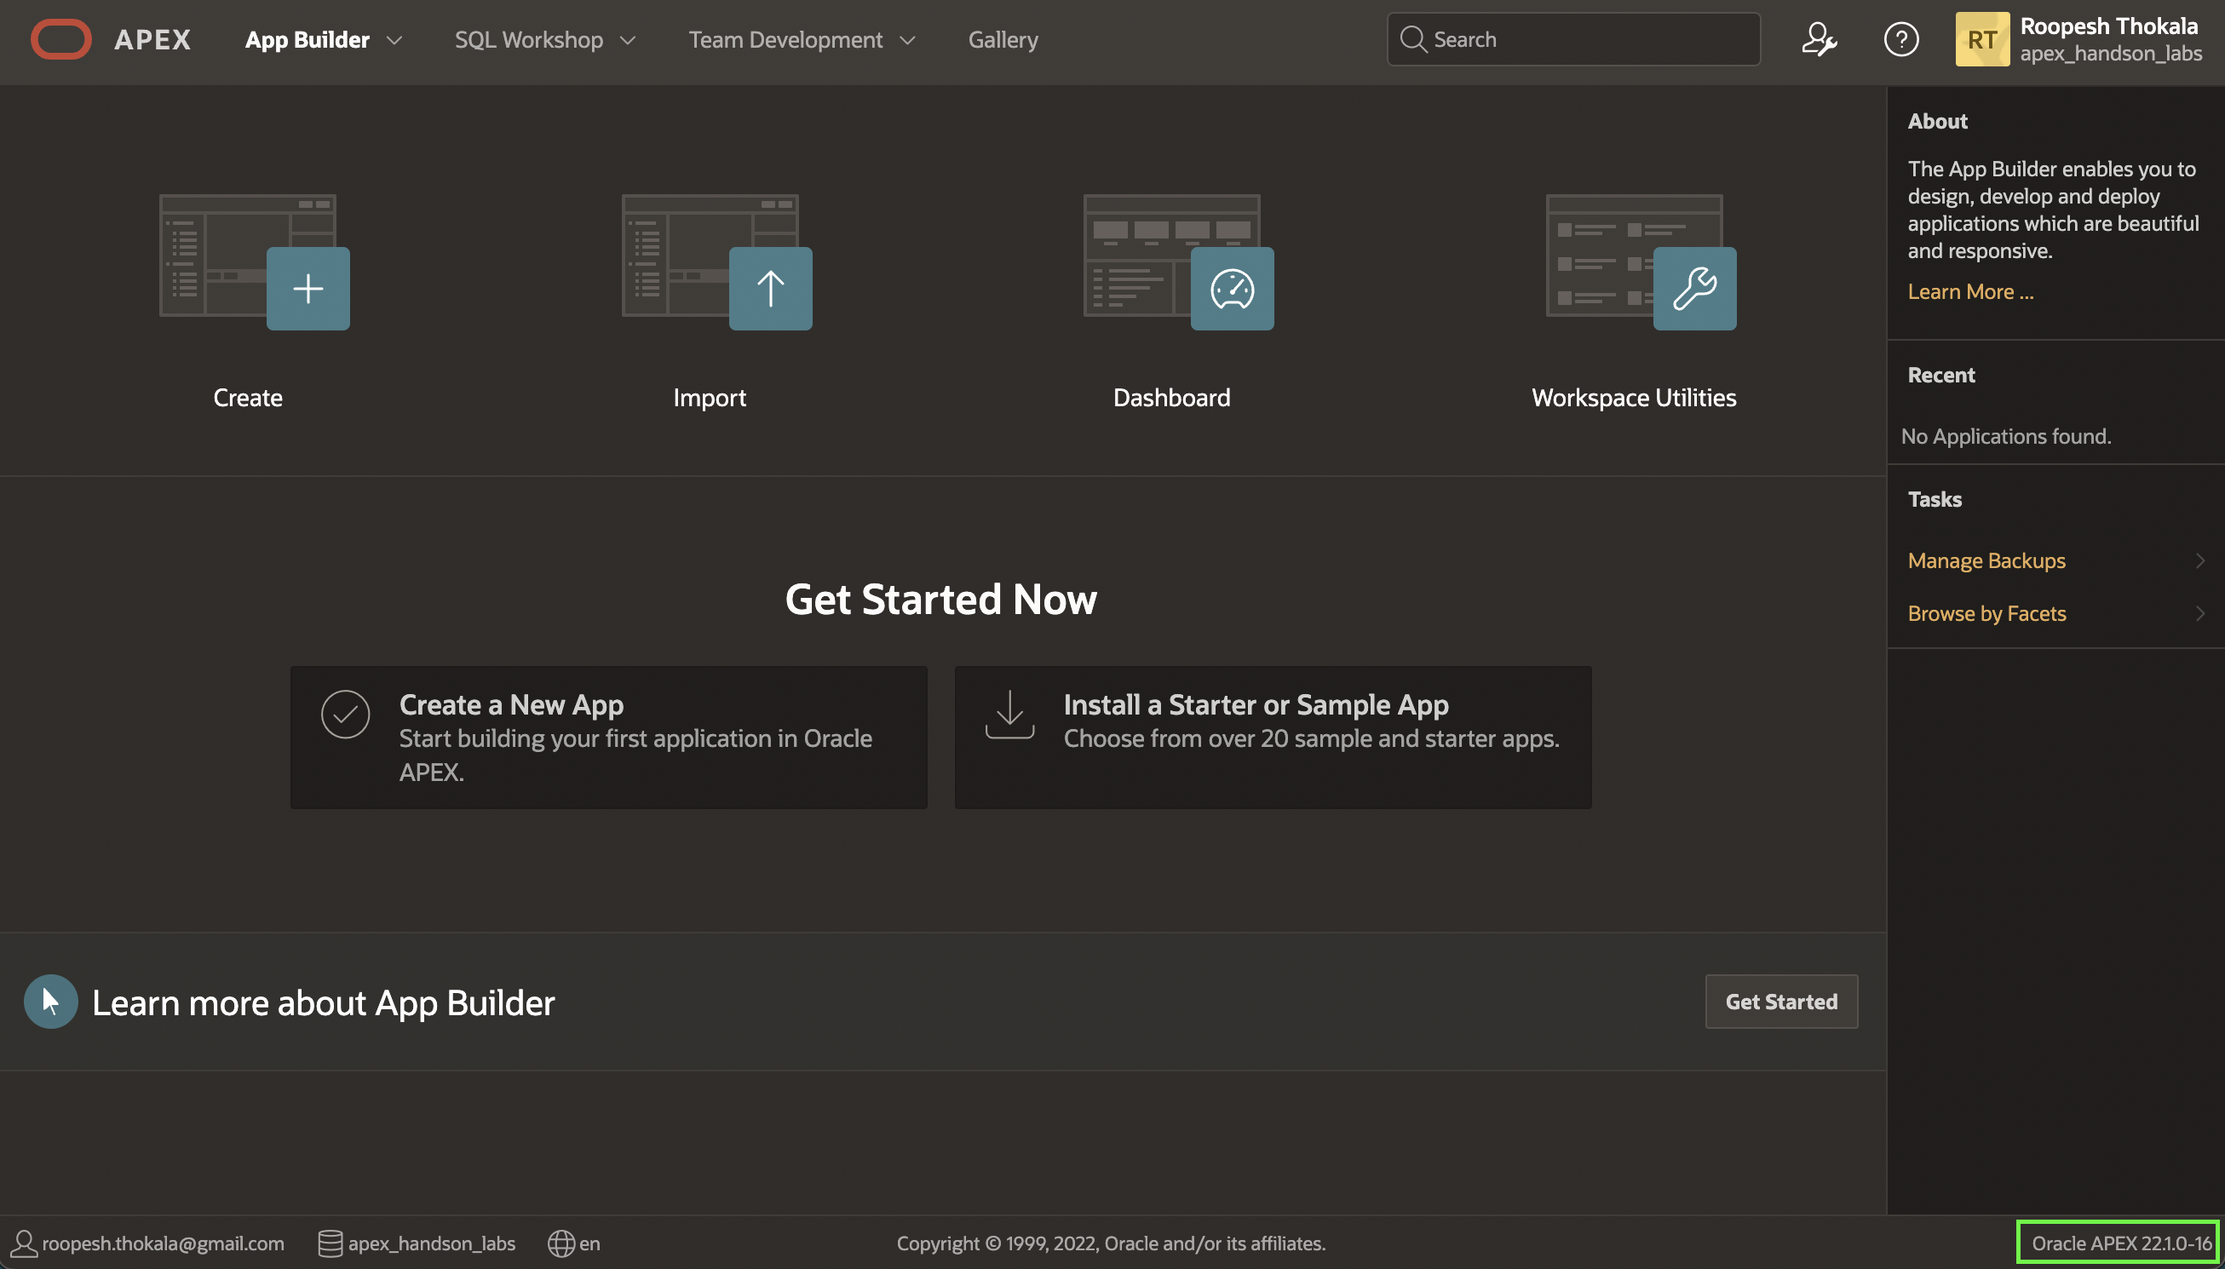
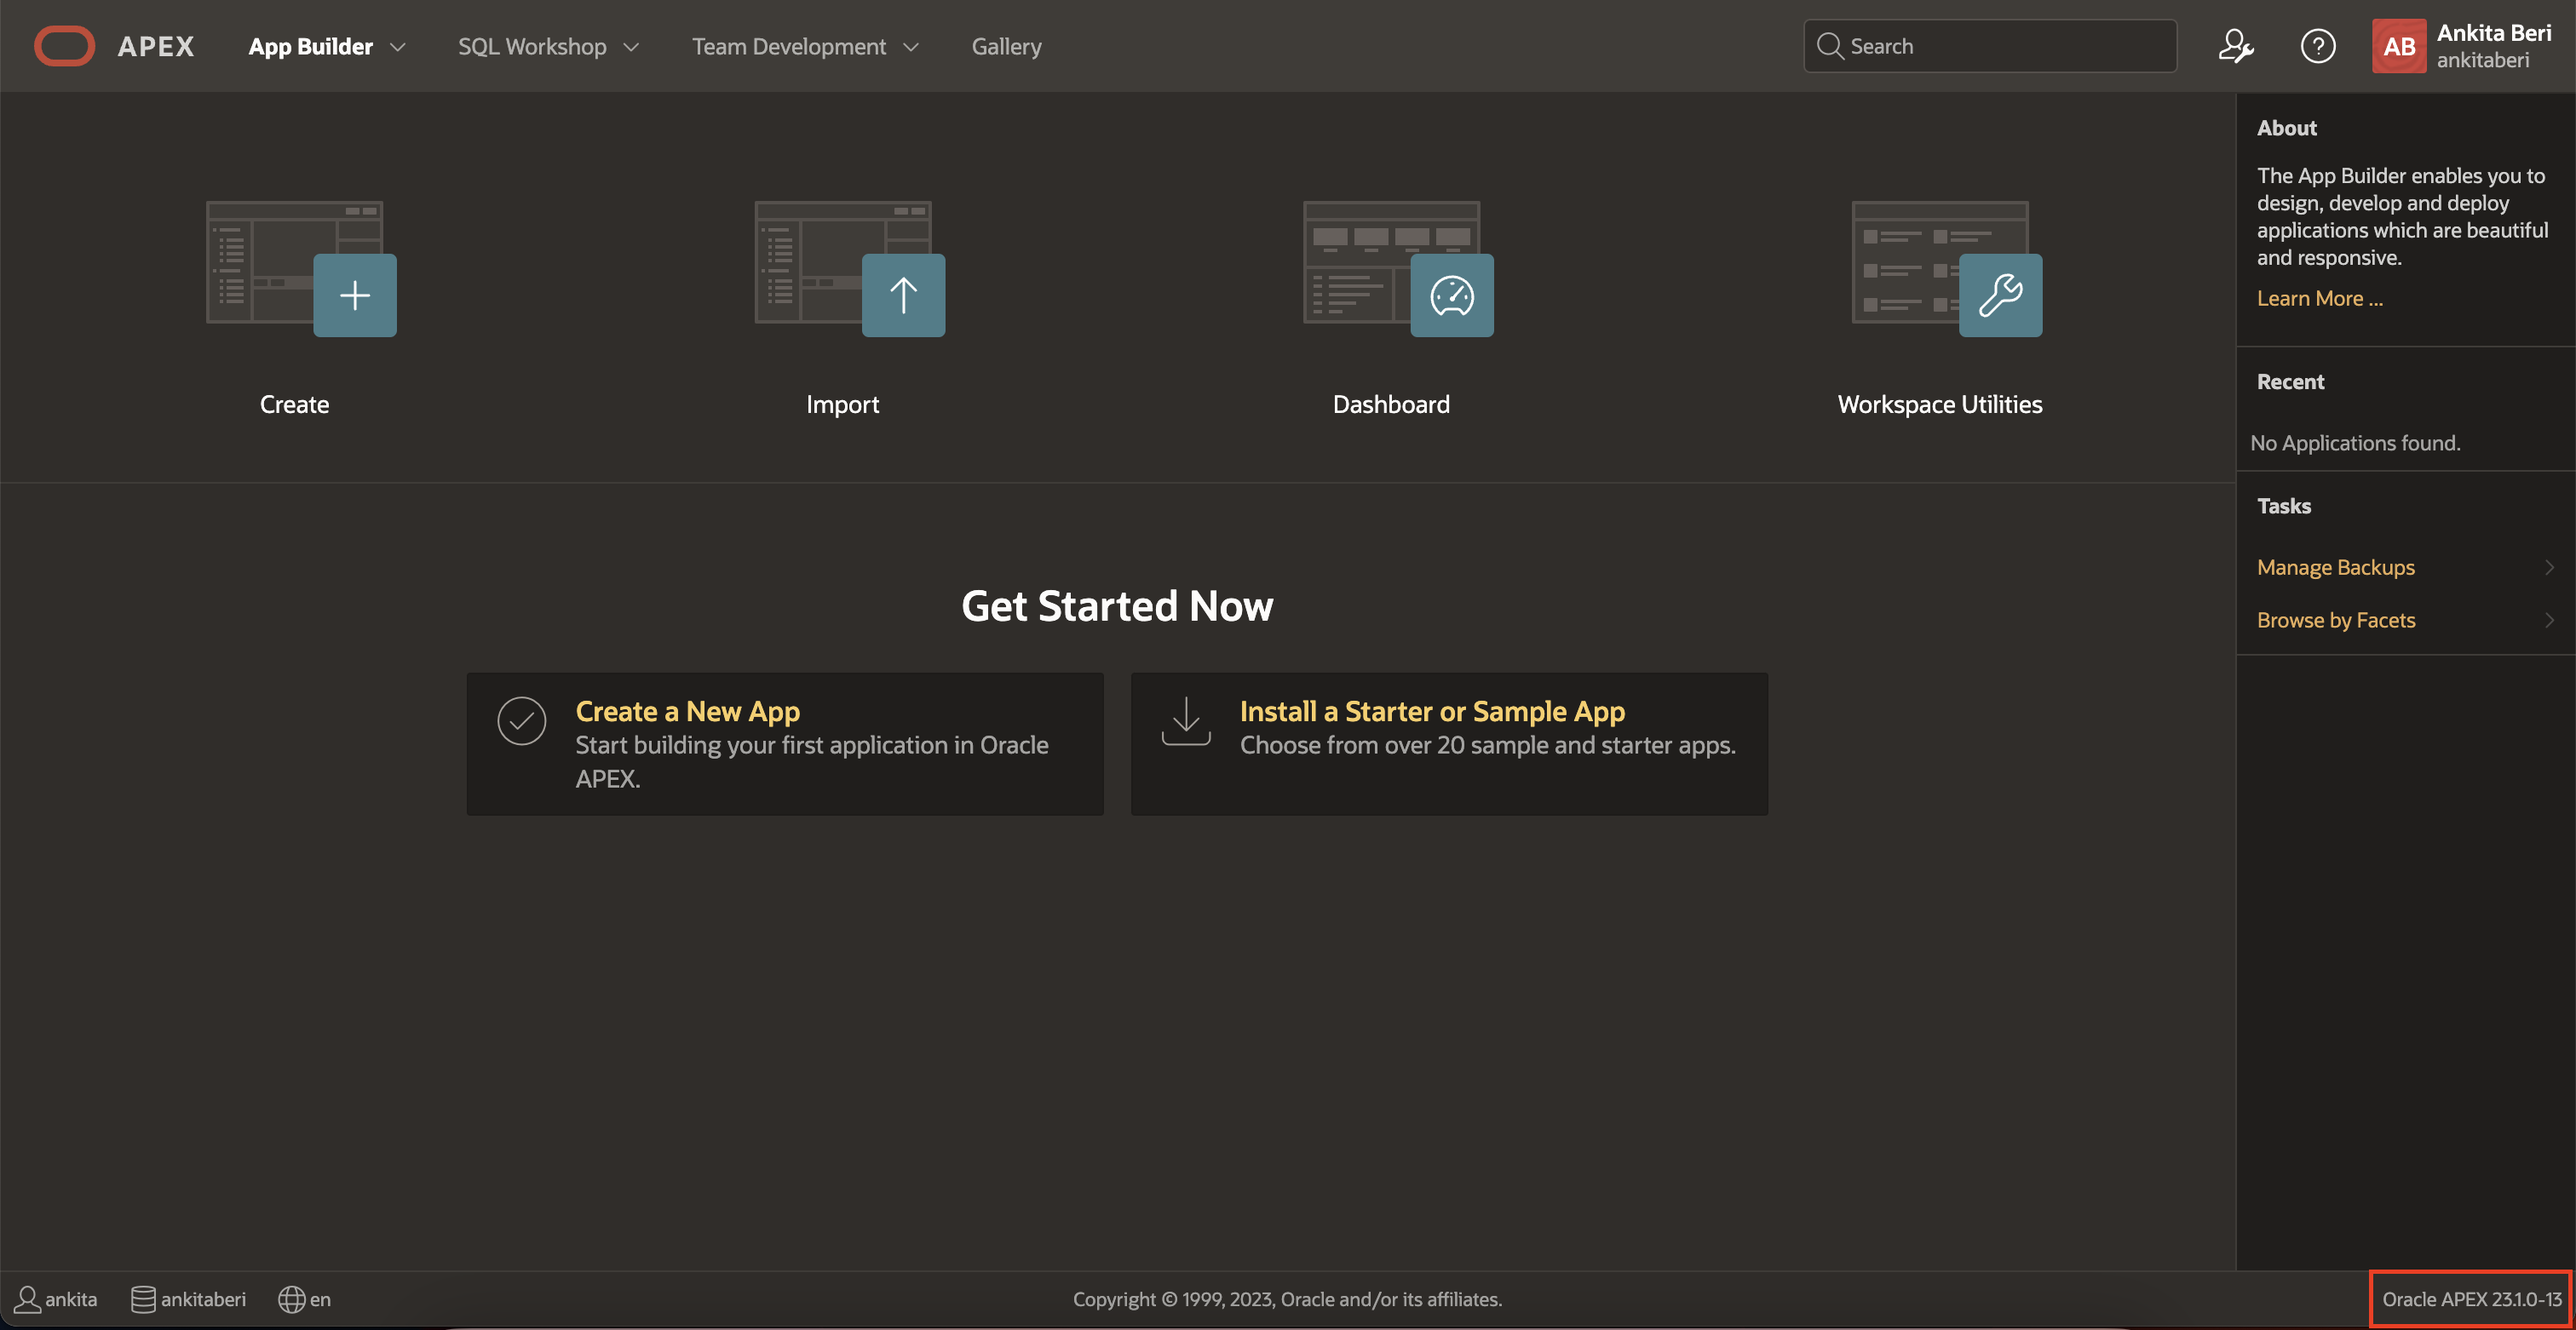
Updates 23.1 live labs

diff --git a/apex-professional-common/1-sign-up-apex/1-sign-up-apex.md b/apex-professional-common/1-sign-up-apex/1-sign-up-apex.md
@@ -4,7 +4,7 @@
 
 Oracle APEX is a low-code application platform for Oracle Database. APEX Application Development, Autonomous Data Warehouse (ADW), and Autonomous Transaction Processing (ATP) are fully managed services, pre-integrated and pre-configured with APEX, for rapidly building and deploying modern data-driven applications in Oracle Cloud. Business users, citizens, and application developers can create enterprise apps 20X faster with 100X less code — without having to learn complex web technologies with just a browser. To start, you will need to decide on the service you are going to use for this workshop and then create an APEX workspace accordingly.
 
-If you already have an APEX 22.2 Workspace provisioned, you can skip this lab.
+If you already have an APEX 23.1 Workspace provisioned, you can skip this lab.
 
 Estimated Time: 5 minutes
 <!--
@@ -27,13 +27,14 @@ To determine which release of Oracle APEX you are currently running, do one of t
 
 * View the About APEX page:
     - Sign in to Oracle APEX. The Workspace home page appears.
+
     - Click the Help menu at the top of the page and select About. The About APEX page appears.
 
   ![APEX Details](images/version.png)
 
 ### Where to Run the Lab
 
-You can run this lab in any Oracle Database with APEX 22.2 installed. This includes the APEX Application Development Service, the free, "Development Only" apex.oracle.com service, your on-premises Oracle Database (providing APEX 22.2 is installed), on a third-party cloud provider where APEX 22.2 is installed, or even on your laptop by installing Oracle XE or Oracle VirtualBox App Dev VM and installing APEX 22.2.
+You can run this lab in any Oracle Database with APEX 23.1 installed. This includes the APEX Application Development Service, the free, "Development Only" apex.oracle.com service, your on-premises Oracle Database (providing APEX 23.1 is installed), on a third-party cloud provider where APEX 23.1 is installed, or even on your laptop by installing Oracle XE or Oracle VirtualBox App Dev VM and installing APEX 23.1.
 
 Below are steps on how to sign up for an *APEX Application Development* Service, or for an *Oracle Autonomous Database* cloud service or *apex.oracle.com* service.
 - On the other hand, **apex.oracle.com** is also a free service; however, it is only designated for development purposes, and running production apps is not allowed. For conducting labs in this workshop, any of these options can be utilized.
@@ -290,4 +291,4 @@ You may now **proceed to the next lab**.
 ## **Acknowledgements**
 
  - **Author** -  Roopesh Thokala, Product Manager
- - **Last Updated By/Date** - Roopesh Thokala, Product Manager, March 2022
+ - **Last Updated By/Date** - Ankita Beri, Product Manager, May 2023
